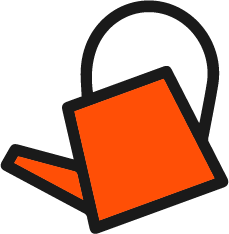
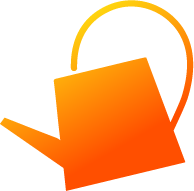
adjustments
adjustments to plant loop

diff --git a/css/main.css b/css/main.css
@@ -277,44 +277,52 @@ p.plant_loop {
 	color: black;
 }
 
+#flower {
+	width: 20px;
+	height: 20px;
+	background-color: red;
+	margin: auto;
+}
+
 #plant {
-	width: 80px;
+	width: 8px;
 	min-height: 60px;
 	background-color: #4ADA0B;
 	margin: auto;
+	margin-top: 35px;
 }
 
-/*#wateringCan {
+#wateringCan {
 	width: 80px;
 	height: 80px;
-	background-color: red;
-	top: 10px;
-	margin: auto;
-	margin-bottom:50px;
-}*/
+	margin-left: 50%;
+	margin-top: 155px;
+
+	-ms-transform: rotate(-15deg); /* IE 9 */
+    -webkit-transform: rotate(-15deg); /* Chrome, Safari, Opera */
+    transform: rotate(-15deg);
+}
 
 #droplet {
-    background-color: lightblue;
-    width: 90px;
-    height: 90px;
-/*    -webkit-border-top-left-radius: 0;
+    background-color: #59AFFF;
+    width: 45px;
+    height: 45px;
+    margin-bottom: 40px;
+    -webkit-border-top-left-radius: 0;
     -webkit-border-top-right-radius: 65px;
     -webkit-border-bottom-right-radius: 65px;
     -webkit-border-bottom-left-radius: 65px;
-    -webkit-transform:rotate(45deg);*/
+    -webkit-transform:rotate(45deg);
 
     /*display: none;*/
     margin: auto;
-    top: 20px;
+    top: 10px;
 
-}
-
-.plantLoopBg {
-	background-color: #C5F5FF;
 }
 
 body {
 	cursor:url(../img/watering_can.png), default;
+	background: -webkit-linear-gradient(left top, #9CE9FF, #EEFFCF);
 }
 
 

diff --git a/js/loop_plant.js b/js/loop_plant.js
@@ -2,6 +2,12 @@ $(document).ready(function() {
 	console.log("let's party.");
 
 	$("#wateringCan").click(function() {
+		var count = 0;
+		
+		if (count == 3) {
+		$('#flower').hide();
+		};
+
 		var plantHeight = $('#plant').height();
 		var newHeight = plantHeight + 20;
 		$('#plant').css('min-height',newHeight+'px');
@@ -12,6 +18,8 @@ $(document).ready(function() {
 		$('#droplet').show(1000).addClass(animationName).one(animationEnd, function() {
 				$(this).removeClass(animationName);
 		});
+
+	
 
 	// end of function
 	}); 

diff --git a/loop_live.html b/loop_live.html
@@ -23,14 +23,11 @@
     </head>
 
     <body class="plantLoopBg">
-        <p class="plant_loop">"bloom where you are planted"</p>
 
         <img id="wateringCan" src="./img/watering_can.png" alt="watering can" width: "20px" height: "20px">
-        
         <div id="droplet"></div>
-
-        <!-- <div id ="wateringCan"></div> -->
         <div id="plant"></div>
+        <div id="flower"></div>
         
         
 
